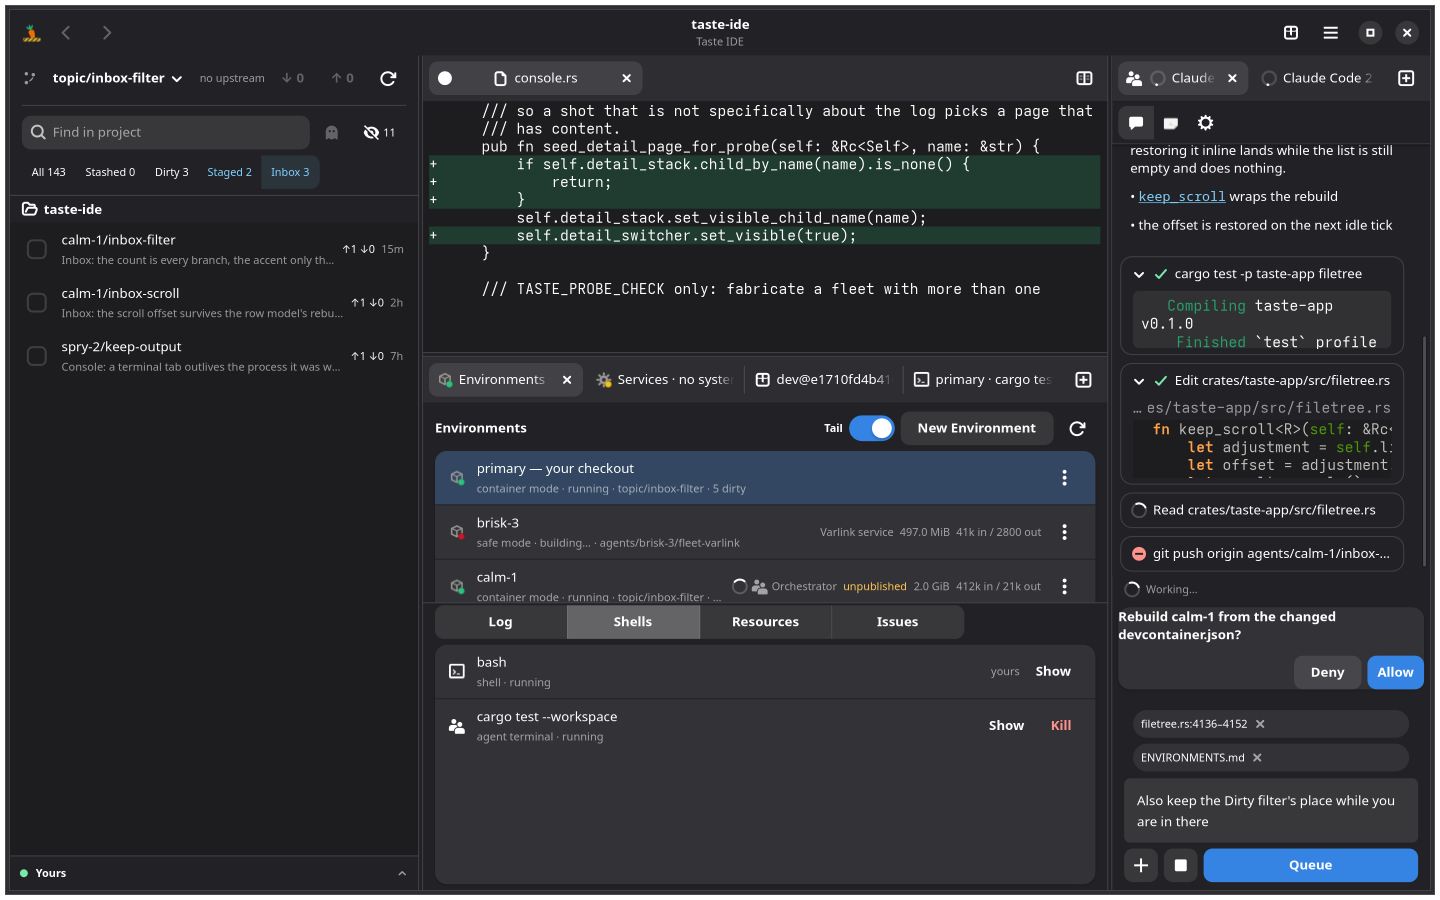
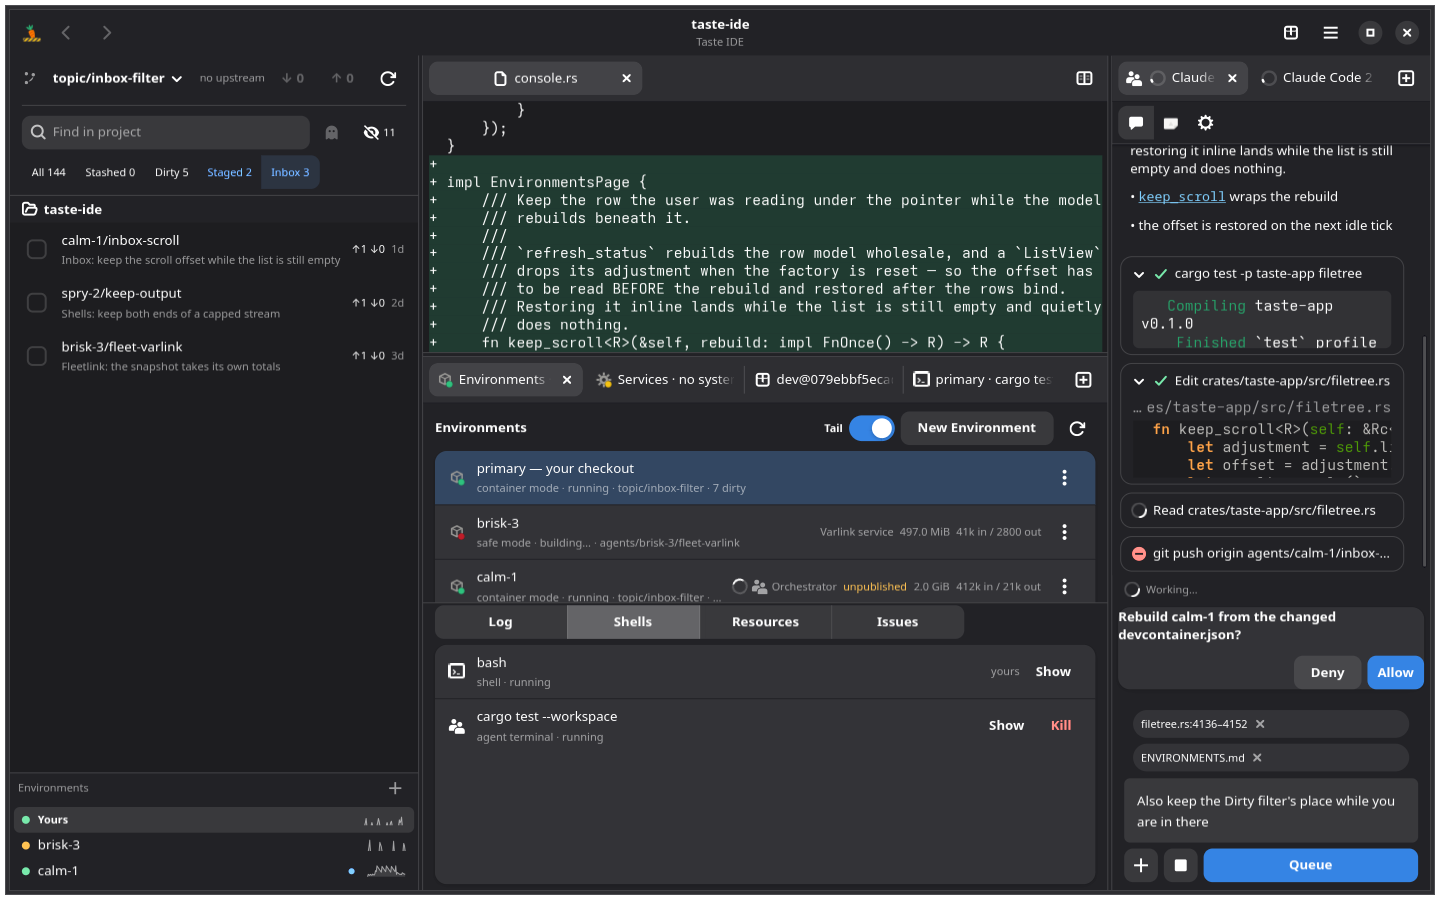
Screenshots: the panel is in the picture, and the shots earned it back
Five of the six README shots frame the file tree, so five of the six were of
a UI that no longer exists: they carry the one-row strip the environment
panel replaced. Re-taken against current HEAD — same 1440x900, same
libadwaita dark, same recipe — and the README's alt text and prose now
describe what is actually in the frame.

Two fixture problems the shots found, which is what they are for:

- The probe raced the first frame. On a workspace with real git state the
  tree's index build pushes that frame past a second, and WidgetPaintable
  serves the last frame DRAWN — so a shot taken too early is not an error
  the retry loop can see, it is a uniform slab of window background. The
  settle is 1800ms now, and the hero came back with pixels in it.
- The panel photographed as two and a half rows. The file list above it
  expands, so a box hands the list every spare pixel and hands the panel its
  MINIMUM — and a ScrolledWindow's minimum is a few pixels whatever it
  contains. Propagating the natural height loses to an expanding sibling;
  the row count has to be the minimum. Capped at six rows, which is where
  the panel scrolls instead of growing.

And one real bug, visible only at 3x on the hero: a nearly-silent series
stroked its zero baseline as a bright horizontal rule, which reads as a
divider someone drew on purpose rather than as an absence of activity. The
pen lifts over runs of empty buckets now — a busy series is still one
[…]

diff --git a/crates/taste-app/src/window.rs b/crates/taste-app/src/window.rs
@@ -793,8 +793,13 @@ pub fn build_window(app: &adw::Application, root: PathBuf) -> adw::ApplicationWi
             // Nothing to open: the panel is permanent, which is the whole
             // point of the shot. It gets fabricated activity instead, so
             // the sparklines have five minutes of history a two-second-old
-            // probe window could not have earned.
-            if envstrip_probe {
+            // probe window could not have earned — in EVERY view that
+            // frames the panel, not just the one that is about it. The
+            // hero's panel drawn from a three-second-old process is three
+            // rows and one tick, which photographs a feature in its
+            // degenerate state; the fleet, the transcript and the agent
+            // terminal beside it are fabricated for exactly this reason.
+            {
                 use crate::envstrip::Shape;
                 filetree_for_probe.seed_activity_for_probe(&[
                     // The user's own checkout: they have been editing, so
@@ -812,7 +817,12 @@ pub fn build_window(app: &adw::Application, root: PathBuf) -> adw::ApplicationWi
                     ("spry-2", Shape::Working),
                 ]);
             }
-            glib::timeout_add_local_once(std::time::Duration::from_millis(800), move || {
+            // Long enough for the FIRST frame, not just for the jump. On a
+            // workspace with real git state the tree's index build pushes
+            // that frame past a second, and WidgetPaintable serves the last
+            // frame DRAWN — so a shot taken too early is not an error the
+            // retry loop can see, it is a uniform slab of window background.
+            glib::timeout_add_local_once(std::time::Duration::from_millis(1800), move || {
                 // Once frames have rendered, the jump lands where it was
                 // asked to: re-issuing on an already-open page only scrolls
                 // it, and a view that has never been laid out scrolls to
@@ -827,7 +837,7 @@ pub fn build_window(app: &adw::Application, root: PathBuf) -> adw::ApplicationWi
                 glib::spawn_future_local(async move {
                     use taste_core::ui_probe::{UiReply, UiRequest};
                     // Let the jump above land before anything is shot.
-                    glib::timeout_future(std::time::Duration::from_millis(400)).await;
+                    glib::timeout_future(std::time::Duration::from_millis(700)).await;
                     let targets: &[&str] = if gadget_probe {
                         // One window, one layout: below the breakpoint
                         // there are no panes to shoot.

diff --git a/crates/taste-app/src/envstrip.rs b/crates/taste-app/src/envstrip.rs
@@ -275,6 +275,7 @@ pub struct EnvPanel {
     /// The panel itself: a permanent child at the bottom of the file-tree
     /// pane, below the intervention panel.
     pub widget: gtk::Box,
+    scroller: gtk::ScrolledWindow,
     search: gtk::SearchEntry,
     list: gtk::ListBox,
     activity: Activity,
@@ -367,6 +368,7 @@ impl EnvPanel {
 
         let panel = Rc::new(Self {
             widget,
+            scroller: scroller.clone(),
             search: search.clone(),
             list: list.clone(),
             activity,
@@ -646,6 +648,18 @@ impl EnvPanel {
                 sparkline,
             });
         }
+        // Claim the height the rows need, as a MINIMUM.
+        //
+        // The file list above this expands, so a box hands it every spare
+        // pixel and hands the panel its minimum — and a ScrolledWindow's
+        // minimum is a few pixels whatever it contains. Propagating the
+        // natural height is not enough against an expanding sibling: it has
+        // to be the minimum, or the panel photographs as two and a half
+        // rows with the rest scrolled away. Capped at VISIBLE_ROWS, which
+        // is where it starts scrolling instead of growing.
+        let shown_rows = listed.len() as i32;
+        self.scroller
+            .set_min_content_height(shown_rows.clamp(1, VISIBLE_ROWS) * ROW_HEIGHT);
         *self.listed.borrow_mut() = listed;
         *self.shown.borrow_mut() = entries;
 

diff --git a/crates/taste-app/src/sparkline.rs b/crates/taste-app/src/sparkline.rs
@@ -140,12 +140,28 @@ fn draw(
     );
     cr.set_line_width(1.0);
     cr.set_line_join(gtk::cairo::LineJoin::Round);
+    // Only where something happened. A polyline through the zeros draws a
+    // hard rule along the baseline at full line alpha, and at this size
+    // that reads as a divider someone put there on purpose rather than as
+    // an absence of activity — the hero shot is where that showed up. So
+    // the pen lifts over a run of empty buckets: a busy series is still one
+    // continuous line, a sparse one is the marks it earned, and a bucket
+    // that is zero between two that are not still gets its dip.
+    let mut down = false;
     for index in 0..BUCKETS {
+        let live = samples[index] > 0
+            || index.checked_sub(1).is_some_and(|prev| samples[prev] > 0)
+            || samples.get(index + 1).is_some_and(|next| *next > 0);
+        if !live {
+            down = false;
+            continue;
+        }
         let (x, y) = point(index);
-        if index == 0 {
-            cr.move_to(x, y);
-        } else {
+        if down {
             cr.line_to(x, y);
+        } else {
+            cr.move_to(x, y);
+            down = true;
         }
     }
     let _ = cr.stroke();

diff --git a/docs/ARCHITECTURE.md b/docs/ARCHITECTURE.md
@@ -455,27 +455,44 @@ the chat working in that environment, its fleet row, or the inbox.
 - The ignored-files eye moved out of the filter row and up beside the
   search-ghosting toggle: both are listing choices, and the filter group
   needed the row (ROADMAP's crowded-header debt, paid).
-- **The environment strip is pinned to the bottom of the pane** — below
+- **The environment panel is pinned to the bottom of the pane** — below
   the intervention panel, below everything this pane can open, so the one
   thing that says which world you are in is the one thing that never gets
   displaced (`envstrip.rs`; VS Code's remote-indicator corner is the
-  acknowledged precedent). It shows the current context — "Yours" for the
-  user's own checkout, else the environment's name — a state dot
-  (container running / building / safe mode / failed), a lock while the
-  view is read-only, and a themed tint whenever that context is not home.
-  Clicking it (or Ctrl+Shift+E) opens a switcher: one compact row per
-  `FleetRow` with the primary pinned first as the return path, a busy
-  spinner while that environment's chat is mid-turn, an unpublished-work
-  dot, a check on the current row, and — past six environments — a
-  type-to-filter entry that two environments do not need. Its last row
-  mirrors the fleet view's New Environment, so the way to make one lives
-  where the switching does. Selecting a row calls the window's one
-  watching transition, exactly as a fleet row does. The strip renders
+  acknowledged precedent). **It is a persistent list, not an indicator with
+  a menu behind it:** one row per `FleetRow`, always visible, the primary
+  first as the return path and named "Yours". Clicking a row calls the
+  window's one watching transition, exactly as a fleet row does — one
+  click, no menu. The panel tints itself whenever the context is not home,
+  and the row the panes are aimed at is bold, selected, and carries the
+  read-only lock.
+  Each row carries two signals and no more, because a row is about 180px:
+  - a **traffic light** — green (up; busy or idle alike), amber (building,
+    starting, a config the running container no longer matches, or a chat
+    stopped on a question only the user can answer), red (failed, stopped,
+    never configured — nothing runs here). The mapping is
+    `FleetRow::light`, beside the assembly, so the panel and the fleet view
+    cannot disagree about whether an environment is healthy.
+  - an **activity sparkline** — five minutes of `taste_core::activity` in
+    44×14px, drawn in the theme foreground at reduced alpha. Silence draws
+    nothing: a flat line at zero claims a measurement, and a row that just
+    appeared has no history rather than a history of nothing.
+  The switcher's busy spinner did NOT survive the move — it animated
+  permanently in the corner of the eye and drew as a broken ring in any
+  still frame — so `busy` reaches the reader through the row's tooltip, and
+  the fleet view keeps the spinner where a column has room. Past six
+  environments the panel grows a type-to-filter entry and starts scrolling
+  inside itself rather than growing into the tree. The header holds the one
+  action that is not "go somewhere", mirroring the fleet view's New
+  Environment. Ctrl+Shift+E focuses the panel and walks the rows; Enter
+  switches. A single 1 Hz tick refreshes the fleet (pure, equality-guarded)
+  and repaints the sparklines (guarded on their own samples), because a
+  permanent list has no open-moment to refresh on. The panel renders
   assembled `FleetRow`s and derives nothing of its own.
 - **The tree can be aimed at another environment — read, never edit.**
   "Open Environment" (a fleet row, or a chat's own environment row) points
   the tree and every git view at that environment's clone: its branch, its
-  statuses, its filters. The strip below says so — that is its whole job,
+  statuses, its filters. The panel below says so — that is its whole job,
   and there is no second indicator in the header. The active *filter*
   survives the move on purpose — the Dirty view over an agent's clone is a
   live review of work in progress, which is what watching is for — while

diff --git a/docs/ENVIRONMENTS.md b/docs/ENVIRONMENTS.md
@@ -262,17 +262,30 @@ The user can open any environment and watch its agent work — **read,
 never edit**. The fixed pane layout does not change; what the panes are
 aimed at does, by explicit action only:
 
-- **Where the panes are aimed is said once, by a permanent strip at the
+- **Where the panes are aimed is said once, by a permanent panel at the
   very bottom of the file-tree pane** — below the intervention panel and
   below anything else that pane opens, because a context indicator that
-  can be displaced by a transient panel is not an indicator. It names the
-  current context ("Yours", or the environment), carries its state dot and
-  a lock while the view is read-only, and tints itself whenever that
-  context is not home, so peripheral vision knows before anything is read.
-  Clicking it — or Ctrl+Shift+E — opens the switcher: every environment,
-  primary first as the way back, with busy and unpublished-work markers,
-  and a filter once the list outgrows reading. It replaced the "Viewing
-  `<env>` / Back to Yours" bar the tree header used to grow.
+  can be displaced by a transient panel is not an indicator. **It lists
+  every environment, always, one row each**, primary first as the way back
+  and named "Yours"; clicking a row aims the panes there. No menu, no
+  reveal: the switcher was a popover, which meant the fleet existed only
+  while it was open, and between openings the panel could not say that
+  another environment was building, or waiting on you, or had gone down.
+  The panel tints itself whenever the context is not home, and the aimed
+  row is bold and carries the read-only lock.
+  Every row carries a **traffic light** — green (up), amber (building,
+  starting, drifted config, or a chat stopped on a question only the user
+  can answer), red (nothing runs here) — and an **activity sparkline**, the
+  last five minutes of that environment's event, output and turn traffic
+  (`taste_core::activity`). A state cannot tell an environment that is up
+  and hammering from one that is up and idle; that is what the sparkline is
+  for. Silence draws nothing rather than a flat line, which would claim a
+  measurement where there is only an absence.
+  Past six environments the panel filters and scrolls inside itself instead
+  of growing into the tree. Ctrl+Shift+E focuses it and walks the rows;
+  Enter switches. It replaced the "Viewing `<env>` / Back to Yours" bar the
+  tree header used to grow, and then the popover switcher that replaced
+  that.
 - An "open environment" action on a chat tab and on each fleet-view row
   points the file tree and git views at that environment's clone: its
   branch, its dirty/staged state, live. Those remain, as shortcuts into
@@ -953,7 +966,7 @@ Detailed sequencing lives in ROADMAP.md. In outline:
    what the clone holds *before* the button becomes sensitive.
    Watching landed whole: "Open Environment" — from a fleet row or a chat's
    own environment row — aims the tree and git views at that clone, says
-   so on the environment strip pinned under the tree (which is also the
+   so on the environment panel pinned under the tree (which is also the
    one click back, and the switcher), keeps the active filter
    (the Dirty view over an agent's clone *is* the live review), locks every
    row, disables every write at the control and refuses it again at the

diff --git a/README.md b/README.md
@@ -14,11 +14,13 @@ The design and its non-negotiables: [docs/ARCHITECTURE.md](docs/ARCHITECTURE.md)
 
 ![The taste-ide window, dark: a file tree on the left showing the taste-ide
 repository with git status markers and Dirty/Staged/Inbox filters, an
-environment strip reading "Yours" pinned at its foot, a Rust source file open
-in the editor with a minimap, the console below showing the Environments
-fleet and its live shell roster, and an agent chat on the right mid-turn —
-streamed prose, a shell tool card, a diff card, and a permission prompt
-asking to rebuild an environment.](docs/screenshots/hero.png)
+Environments panel pinned at its foot listing Yours, brisk-3 and calm-1 —
+each with a green, amber or red status dot and a sparkline of its recent
+activity — a Rust source file open in the editor with a minimap, the console
+below showing the Environments fleet and its live shell roster, and an agent
+chat on the right mid-turn — streamed prose, a shell tool card, a diff card,
+and a permission prompt asking to rebuild an
+environment.](docs/screenshots/hero.png)
 
 ## What it looks like
 
@@ -27,19 +29,22 @@ each a git clone with its own devcontainer, agent, disk footprint and token
 spend.
 
 ![The console's Environments tab listing four rows: the primary checkout
-running with five dirty files, brisk-3 in safe mode building, calm-1 running
+running with seven dirty files, brisk-3 in safe mode building, calm-1 running
 with an orchestrator marker and a busy spinner, and wry-4 in safe mode
-stopped — each with its branch, disk size and token
-counts.](docs/screenshots/fleet.png)
+stopped — each with its branch, disk size and token counts. The panel at the
+foot of the file tree carries the same four environments, with a traffic-light
+dot and an activity sparkline each.](docs/screenshots/fleet.png)
 
-Open an environment and watch its agent work — read, never edit. The strip
-at the foot of the tree names where the panes are aimed and tints itself
-while you are away from your own checkout; every row carries a lock, and
-files open as read-only tabs badged with the environment's name.
+Open an environment and watch its agent work — read, never edit. The panel
+at the foot of the tree is the switcher: one row per environment, always
+visible, each with a traffic-light dot and a sparkline of the last five
+minutes. One click aims the panes, and the panel tints itself while you are
+away from your own checkout; every tree row carries a lock, and files open as
+read-only tabs badged with the environment's name.
 
-![The file tree in watching mode: every row padlocked, the environment strip
-at its foot tinted purple and reading "calm-1" with a lock, and the editor
-tab labelled "filetree.rs · calm-1".](docs/screenshots/watching.png)
+![The file tree in watching mode: every row padlocked, the Environments panel
+at its foot tinted purple with "calm-1" selected and carrying a lock, and the
+editor tab labelled "filetree.rs · calm-1".](docs/screenshots/watching.png)
 
 Agents publish branches; they never push. Published work lands in a review
 inbox beside Dirty and Staged, and opens as a diff.
